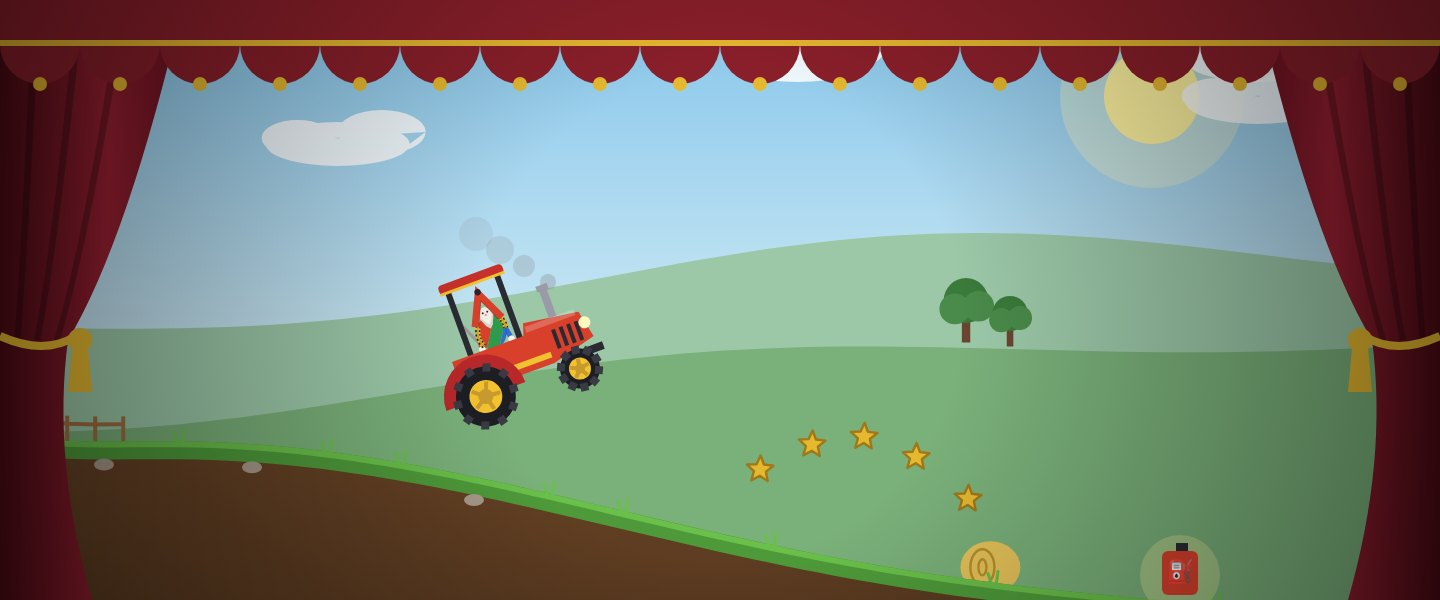
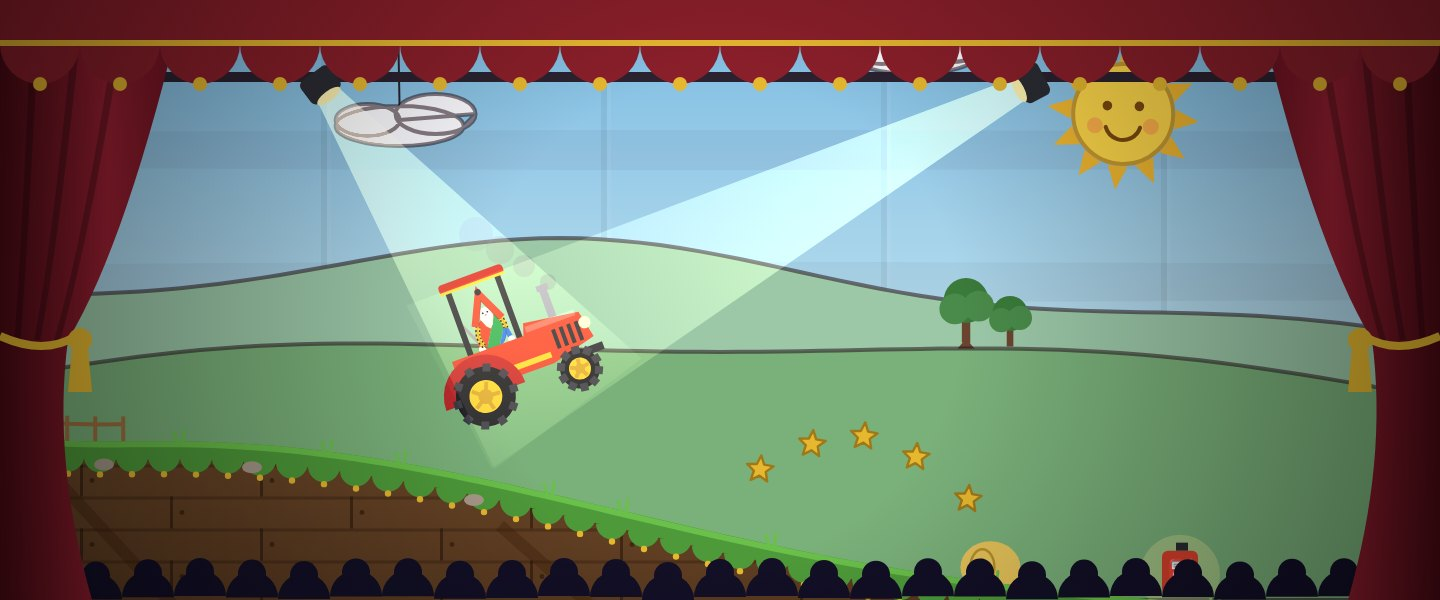
Tracteur : plus difficile (cabrage, contrôle en l'air) et décor ferme-théâtre
Claude-Session: https://claude.ai/code/session_01VvPzovv9M4HU3UF5ZMQjNa

diff --git a/tracteur.html b/tracteur.html
@@ -2146,8 +2146,8 @@ function update() {
         T0.spin[i] += vt * h / r;
         if (J > 2.2 && sub === 0) { sfx.land(); shake = M.min(6, J) }
       });
-      if (!contacts && !T0.dead) { if (gas) T0.w -= .0011 * h * 4; if (brk) T0.w += .0011 * h * 4 } else if (gas) T0.w -= .0008;
-      T0.w *= .996; T0.x += T0.vx * h; T0.y += T0.vy * h; T0.a += T0.w * h;
+      if (!contacts && !T0.dead) { if (gas) T0.w -= .0021 * h * 4; if (brk) T0.w += .0021 * h * 4 } else if (gas && !T0.dead) { const climb = M.max(0, -M.atan(slope(T0.x))); T0.w -= (.0016 + climb * .004) * h * 4 } else if (brk && contacts === 2) T0.w += .0004 * h * 4;
+      T0.w *= contacts ? .985 : .997; T0.x += T0.vx * h; T0.y += T0.vy * h; T0.a += T0.w * h;
       if (!contacts) WHEELS.forEach((wh, i) => T0.spin[i] += (gas ? .3 : brk ? -.1 : 0) * h);
     }
     T0.ground = contacts;
@@ -2327,26 +2327,48 @@ function drawBarn(x, y, s) {
 function drawSilo(x, y, s) { X.save(); X.translate(x, y); X.scale(s, s); X.fillStyle = '#c8c4d0'; X.fillRect(-10, -70, 20, 70); X.beginPath(); X.arc(0, -70, 10, M.PI, 0); X.fill(); X.fillStyle = 'rgba(0,0,0,.12)'; for (let yy = -64; yy < 0; yy += 10) X.fillRect(-10, yy, 20, 2); X.restore() }
 function drawMill(x, y, s) { X.save(); X.translate(x, y); X.scale(s, s); X.fillStyle = '#e8dcc0'; poly('#e8dcc0', [-10, 0, 10, 0, 6, -50, -6, -50]); poly('#8a5a3a', [-8, -50, 8, -50, 0, -60]); X.translate(0, -52); X.rotate(t * .02); for (let i = 0; i < 4; i++) { X.rotate(1.5708); X.fillStyle = '#f4f0e8'; X.fillRect(2, -3, 30, 6) } X.restore() }
 function drawTree(x, y, s) { X.save(); X.translate(x, y); X.scale(s, s); X.fillStyle = '#6b4430'; X.fillRect(-3, -20, 6, 20); circ('#3a7a3a', 0, -30, 16); circ('#4a8a4a', -8, -24, 11); circ('#4a8a4a', 9, -26, 11); X.restore() }
+function flat(path, fill, x0, y0, feet) {
+  // a painted cardboard flat: dark outline and little wooden braces at the bottom
+  X.fillStyle = fill; path(); X.fill(); X.strokeStyle = 'rgba(40,20,30,.55)'; X.lineWidth = 2; X.stroke();
+  if (feet) { X.fillStyle = '#6b4430'; for (const fx of feet) { X.beginPath(); X.moveTo(fx, y0); X.lineTo(fx + 10, y0); X.lineTo(fx + 2, y0 - 14); X.fill() } }
+}
 function drawStage() {
   X.save(); X.translate(0, -T);
-  const g = X.createLinearGradient(0, 0, 0, H); g.addColorStop(0, '#6ab8e8'); g.addColorStop(.6, '#bfe4f4'); g.addColorStop(1, '#f6e8c0'); X.fillStyle = g; X.fillRect(0, 0, W, H);
-  // act ambiance tints the sky
-  X.save(); X.globalCompositeOperation = 'soft-light'; X.globalAlpha = .45; X.fillStyle = `rgb(${AMB.spot})`; X.fillRect(0, 0, W, H); X.restore();
-  X.save(); X.globalAlpha = .35; circ('#fff6c0', W * .8, H * .16, 46); X.restore(); circ('#fff3a0', W * .8, H * .16, 24);
-  for (let i = 0; i < 6; i++) { const cx = ((i * 230 - camX * .08 * ZM) % (W + 200) + W + 200) % (W + 200) - 100, cy = H * (.1 + (i % 3) * .07); X.fillStyle = 'rgba(255,255,255,.85)'; X.beginPath(); X.ellipse(cx, cy, 36, 11, 0, 0, 6.29); X.ellipse(cx + 22, cy - 6, 22, 11, 0, 0, 6.29); X.ellipse(cx - 20, cy - 3, 18, 9, 0, 0, 6.29); X.fill() }
+  // painted sky canvas, with the seams of the backdrop
+  const g = X.createLinearGradient(0, 0, 0, H); g.addColorStop(0, '#5aa8de'); g.addColorStop(.6, '#a8d8ee'); g.addColorStop(1, '#f2dfb0'); X.fillStyle = g; X.fillRect(0, 0, W, H);
+  X.save(); X.globalCompositeOperation = 'soft-light'; X.globalAlpha = .5; X.fillStyle = `rgb(${AMB.spot})`; X.fillRect(0, 0, W, H); X.restore();
+  const seam = 140, so = -(camX * .05 * ZM) % seam;
+  for (let x = so; x < W; x += seam) { X.fillStyle = 'rgba(0,0,0,.05)'; X.fillRect(x, 0, 3, H); X.fillStyle = 'rgba(255,255,255,.06)'; X.fillRect(x + 3, 0, 2, H) }
+  for (let i = 0; i < 3; i++) { X.fillStyle = 'rgba(40,30,60,.05)'; X.beginPath(); X.ellipse(W / 2, H * (.25 + i * .22), W, 10, 0, 0, 6.29); X.fill() }
+  // cardboard sun and clouds hanging on wires
+  const sw = M.sin(t * .02) * .05, sx = W * .78, sy = H * .19;
+  line('#2a2230', 1, [sx - 14, 0, sx - 14, sy - 20]); line('#2a2230', 1, [sx + 14, 0, sx + 14, sy - 20]);
+  X.save(); X.translate(sx, sy); X.rotate(sw);
+  for (let i = 0; i < 12; i++) { X.save(); X.rotate(i * .5236 + t * .003); poly('#f2b830', [-5, -26, 5, -26, 0, -38]); X.restore() }
+  circ('#ffd84a', 0, 0, 25); X.strokeStyle = '#c99a2e'; X.lineWidth = 2; X.beginPath(); X.arc(0, 0, 25, 0, 6.29); X.stroke();
+  circ('#7a4a10', -8, -4, 2.4); circ('#7a4a10', 8, -4, 2.4); X.strokeStyle = '#7a4a10'; X.lineWidth = 2; X.beginPath(); X.arc(0, 4, 9, .3, M.PI - .3); X.stroke(); circ('rgba(255,120,80,.4)', -14, 6, 4); circ('rgba(255,120,80,.4)', 14, 6, 4);
+  X.restore();
+  for (let i = 0; i < 5; i++) {
+    const cx = ((i * 260 - camX * .08 * ZM) % (W + 260) + W + 260) % (W + 260) - 130, cy = H * (.09 + (i % 3) * .06), sway = M.sin(t * .03 + i) * 3;
+    line('#2a2230', 1, [cx, 0, cx + sway, cy - 10]);
+    flat(() => { X.beginPath(); X.ellipse(cx + sway, cy, 32, 10, 0, 0, 6.29); X.ellipse(cx + 18 + sway, cy - 6, 20, 10, 0, 0, 6.29); X.ellipse(cx - 16 + sway, cy - 3, 16, 8, 0, 0, 6.29) }, '#fbfbff');
+  }
   const hy = H * .5 - (camY + VH * .58 - 260) * .12 * ZM;
-  hillLayer(.15, 26, hy, '#9cc8a8', 1);
-  // far farm buildings
+  // far hills: painted flats with braces
+  const off1 = camX * .15 * ZM;
+  flat(() => { X.beginPath(); X.moveTo(0, H); for (let sx2 = 0; sx2 <= W + 10; sx2 += 10) { const wx = sx2 + off1; X.lineTo(sx2, hy + M.sin(wx * .006 + 1) * 24 + M.sin(wx * .017) * 7) } X.lineTo(W, H); X.closePath() }, '#9cc8a8');
+  // far farm buildings, as cut-outs on stands
   const par = .3, sec = 520;
   for (let n = M.floor(camX * par / sec) - 1; n <= M.floor((camX * par + W / ZM) / sec) + 1; n++) {
-    const sx = (n * sec - camX * par + hsh(n, 1) * 200) * ZM, k = M.floor(hsh(n, 2) * 4), by = hy + 26 + M.sin((n * sec + camX * par) * .004 + 3) * 8;
-    if (k === 0) drawBarn(sx, by, .6 * ZM + .2); else if (k === 1) { drawSilo(sx, by, .55 * ZM + .2); drawSilo(sx + 18, by, .45 * ZM + .2) } else if (k === 2) drawMill(sx, by, .6 * ZM + .2); else { drawTree(sx, by, .7); drawTree(sx + 22, by + 2, .55) }
+    const bx = (n * sec - camX * par + hsh(n, 1) * 200) * ZM, k = M.floor(hsh(n, 2) * 4), by = hy + 26 + M.sin((n * sec + camX * par) * .004 + 3) * 8;
+    X.fillStyle = '#6b4430'; X.fillRect(bx - 1, by - 4, 3, 14); X.beginPath(); X.moveTo(bx - 10, by + 10); X.lineTo(bx + 10, by + 10); X.lineTo(bx, by - 2); X.fill();
+    if (k === 0) drawBarn(bx, by, .6 * ZM + .2); else if (k === 1) { drawSilo(bx, by, .55 * ZM + .2); drawSilo(bx + 18, by, .45 * ZM + .2) } else if (k === 2) drawMill(bx, by, .6 * ZM + .2); else { drawTree(bx, by, .7); drawTree(bx + 22, by + 2, .55) }
   }
-  hillLayer(.45, 22, hy + 40, '#7ab07a', 4);
+  const off2 = camX * .45 * ZM, h2 = hy + 40;
+  flat(() => { X.beginPath(); X.moveTo(0, H); for (let sx2 = 0; sx2 <= W + 10; sx2 += 10) { const wx = sx2 + off2; X.lineTo(sx2, h2 + M.sin(wx * .005 + 4) * 20 + M.sin(wx * .013 + 2) * 6) } X.lineTo(W, H); X.closePath() }, '#7ab07a');
   X.restore();
 }
 function drawCrowd() {}
-function drawValance() {}
 function drawBatten() {}
 function drawHay(x, y) { X.fillStyle = '#e6c35a'; X.beginPath(); X.ellipse(x, y - 13, 15, 13, 0, 0, 6.29); X.fill(); X.strokeStyle = '#b8902a'; X.lineWidth = 1.2; X.beginPath(); X.ellipse(x - 4, y - 13, 6, 9, 0, 0, 6.29); X.stroke(); X.beginPath(); X.ellipse(x - 4, y - 13, 2, 4, 0, 0, 6.29); X.stroke() }
 function drawCow(x, y, f) {
@@ -2392,7 +2414,7 @@ function drawGame() {
   // decor on the hills (behind the road)
   for (let n = M.floor(x0 / 260); n <= x1 / 260; n++) {
     if (n < 2) continue; const r = hsh(n, 7), x = n * 260 + r * 120, gy = ground(x) + 4;
-    if (r < .25) drawHay(x, gy); else if (r < .4) drawCow(x, gy, hsh(n, 3) < .5 ? 1 : -1); else if (r < .55) { for (let k = 0; k < 3; k++) { const fx = x + k * 9; line('#3a7a3a', 1.5, [fx, gy, fx, gy - 22 - k * 3]); for (let p = 0; p < 8; p++) circ('#f2c230', fx + M.cos(p * .785) * 4.5, gy - 24 - k * 3 + M.sin(p * .785) * 4.5, 2.4); circ('#6b4430', fx, gy - 24 - k * 3, 2.6) } }
+    if (r < .25) drawHay(x, gy); else if (r < .4) { drawCow(x, gy, hsh(n, 3) < .5 ? 1 : -1); X.fillStyle = '#6b4430'; X.beginPath(); X.moveTo(x - 4, gy); X.lineTo(x + 8, gy); X.lineTo(x + 2, gy - 10); X.fill() } else if (r < .55) { for (let k = 0; k < 3; k++) { const fx = x + k * 9; line('#3a7a3a', 1.5, [fx, gy, fx, gy - 22 - k * 3]); for (let p = 0; p < 8; p++) circ('#f2c230', fx + M.cos(p * .785) * 4.5, gy - 24 - k * 3 + M.sin(p * .785) * 4.5, 2.4); circ('#6b4430', fx, gy - 24 - k * 3, 2.6) } }
     else if (r < .7) { X.strokeStyle = '#a07040'; X.lineWidth = 2; for (let k = 0; k < 4; k++) { const fx = x + k * 14; X.beginPath(); X.moveTo(fx, ground(fx) + 4); X.lineTo(fx, ground(fx) - 14); X.stroke() } X.beginPath(); X.moveTo(x, ground(x) - 10); for (let k = 1; k < 4; k++) X.lineTo(x + k * 14, ground(x + k * 14) - 10); X.stroke() }
   }
   for (let m = M.ceil(x0 / (100 * PXM)) * 100; m * PXM + 120 < x1; m += 100) if (m > 0) drawSign(m * PXM + 120, ground(m * PXM + 120) + 4, m);
@@ -2401,15 +2423,39 @@ function drawGame() {
   if (bx > 300 && bx > x0 && bx < x1) { const by = ground(bx); line('#5a3a1c', 2, [bx, by, bx, by - 44]); poly(COL.yellow, [bx, by - 44, bx + 22, by - 38, bx, by - 32]); txt('Record', bx, by - 52, 10, '#3a2010', 'center', false) }
   // the ground
   X.beginPath(); X.moveTo(x0, ground(x0)); for (let x = x0; x <= x1; x += 8) X.lineTo(x, ground(x)); X.lineTo(x1, camY + VH + 50); X.lineTo(x0, camY + VH + 50); X.closePath();
-  const gg = X.createLinearGradient(0, camY, 0, camY + VH); gg.addColorStop(0, '#8a5a32'); gg.addColorStop(1, '#5a3a20'); X.fillStyle = gg; X.fill();
+  const gg = X.createLinearGradient(0, camY, 0, camY + VH); gg.addColorStop(0, '#9a6a3c'); gg.addColorStop(1, '#5a3a20'); X.fillStyle = gg; X.fill();
+  X.save(); X.clip();
+  for (let y = M.floor((camY - 40) / 16) * 16; y < camY + VH + 60; y += 16) { X.fillStyle = 'rgba(40,20,10,.3)'; X.fillRect(x0, y, x1 - x0, 1.5); for (let x = M.floor(x0 / 90) * 90 + ((y / 16) & 1) * 45; x < x1; x += 90) { X.fillRect(x, y, 1.5, 16); circ('rgba(30,15,5,.5)', x + 6, y + 8, 1.2) } }
+  for (let x = M.floor(x0 / 220) * 220; x < x1; x += 220) { X.strokeStyle = 'rgba(60,30,10,.35)'; X.lineWidth = 6; X.beginPath(); X.moveTo(x, ground(x) + 20); X.lineTo(x + 110, camY + VH + 60); X.stroke() }
+  X.restore();
   X.strokeStyle = '#4e9a3a'; X.lineWidth = 9; X.lineJoin = 'round'; X.beginPath(); for (let x = x0; x <= x1; x += 8) X.lineTo(x, ground(x) + 3); X.stroke();
   X.strokeStyle = '#6ac04a'; X.lineWidth = 3; X.beginPath(); for (let x = x0; x <= x1; x += 8) X.lineTo(x, ground(x)); X.stroke();
+  X.fillStyle = '#4e9a3a'; for (let x = M.floor(x0 / 16) * 16; x < x1; x += 16) { X.beginPath(); X.arc(x + 8, ground(x + 8) + 6, 8, 0, M.PI); X.fill() }
+  X.fillStyle = COL.yellow; for (let x = M.floor(x0 / 16) * 16; x < x1; x += 16) circ(COL.yellow, x + 8, ground(x + 8) + 15, 1.6);
   for (let x = M.floor(x0 / 37) * 37; x < x1; x += 37) { const gy = ground(x); if (hsh(x, 1) < .5) { line('#6ac04a', 1.5, [x, gy, x - 2, gy - 6]); line('#6ac04a', 1.5, [x + 2, gy, x + 3, gy - 7]) } else if (hsh(x, 2) < .3) { X.fillStyle = '#a89a8a'; X.beginPath(); X.ellipse(x, gy + 10, 5, 3, 0, 0, 6.29); X.fill() } }
   // fuel cans and stars
   for (const cn of cans) if (!cn.got) { const y = ground(cn.x) - 4 + M.sin(t * .1) * 2; X.save(); X.globalAlpha = .3; circ('#fff3a0', cn.x, y - 12, 20); X.restore(); X.fillStyle = '#d8402c'; X.beginPath(); X.roundRect(cn.x - 9, y - 24, 18, 22, 3); X.fill(); X.fillStyle = '#2a2a33'; X.fillRect(cn.x - 2, y - 28, 6, 4); X.fillStyle = '#f2c230'; txt('⛽', cn.x, y - 13, 11, '#fff', 'center', false) }
   for (const co of coins) star(co.x, ground(co.x) - co.h + M.sin(t * .1 + co.x) * 2, 7, t * .05);
   for (const p of smoke) { X.save(); X.globalAlpha = p.l / 50 * .45; circ('#8a8a92', p.x, p.y, p.s); X.restore() }
   drawTractor();
+  X.restore();
+  // batten with two follow spots
+  X.save(); X.translate(0, -T);
+  const tx = (TR.x - camX) * ZM, ty2 = (TR.y - camY) * ZM, by = 40;
+  X.fillStyle = '#2a2230'; X.fillRect(0, by - 4, W, 5);
+  for (const sx of [W * .22, W * .72]) {
+    const a = M.atan2(tx - sx, ty2 - by), len = M.hypot(tx - sx, ty2 - by) + 40;
+    X.save(); X.translate(sx, by); X.rotate(-a);
+    X.save(); X.globalCompositeOperation = 'lighter'; const cg = X.createLinearGradient(0, 0, 0, len); cg.addColorStop(0, `rgba(${AMB.spot},.32)`); cg.addColorStop(1, `rgba(${AMB.spot},.03)`); X.fillStyle = cg; X.beginPath(); X.moveTo(-6, 8); X.lineTo(6, 8); X.lineTo(46, len); X.lineTo(-46, len); X.fill(); X.restore();
+    X.fillStyle = '#2b2b33'; X.beginPath(); X.roundRect(-9, -4, 18, 14, 3); X.fill(); X.fillStyle = '#fff3b0'; X.beginPath(); X.ellipse(0, 10, 7, 2.5, 0, 0, 6.29); X.fill();
+    X.restore();
+  }
+  // side curtains
+  for (const side of [0, 1]) { X.save(); if (side) { X.translate(W, 0); X.scale(-1, 1) } const cg = X.createLinearGradient(0, 0, 26, 0); cg.addColorStop(0, '#4a0a14'); cg.addColorStop(1, '#9a2032'); X.fillStyle = cg; X.beginPath(); X.moveTo(0, 0); X.lineTo(28, 0); X.quadraticCurveTo(14, H * .4, 22, H); X.lineTo(0, H); X.fill(); X.restore() }
+  // front row of the audience
+  const ay = H - (LAND ? 12 : 22), ao = -(camX * ZM * .6) % 26;
+  for (let x = ao - 26; x < W + 26; x += 26) { const b = M.abs(M.sin(t * .08 + x)) * -2; X.fillStyle = '#120f26'; X.beginPath(); X.arc(x, ay + 12 + b, 13, M.PI, 0); X.fill(); circ('#120f26', x, ay + b, 7) }
+  X.fillStyle = '#0b0918'; X.fillRect(0, ay + 12, W, 30);
   X.restore();
 }
 function drawHud() {

diff --git a/sw.js b/sw.js
@@ -1,6 +1,6 @@
 // Les Polichinelles - service worker
 // Network first (players always get the latest version when online), cache as a fallback (works offline).
-const CACHE = 'polichinelles-v27';
+const CACHE = 'polichinelles-v28';
 const CORE = ['./', 'index.html', 'course.html', 'envol.html', 'tape.html', 'pyramide.html', 'jongleur.html', 'trampo.html', 'tir.html', 'tracteur.html', 'oeufs.html', 'shots/tracteur.jpg', 'shots/oeufs.jpg', 'loge.html', 'pass.html', 'pass.js', 'shots/course.jpg', 'shots/legend1.png', 'shots/legend2.png', 'shots/envol.jpg', 'shots/trampo.jpg', 'shots/tir.jpg', 'shots/tape.jpg', 'shots/pyramide.jpg', 'shots/jongleur.jpg', 'kart.html', 'three.module.min.js', 'manifest.webmanifest', 'icon-192.png', 'icon-512.png', 'icon-180.png'];
 
 self.addEventListener('install', e => {
